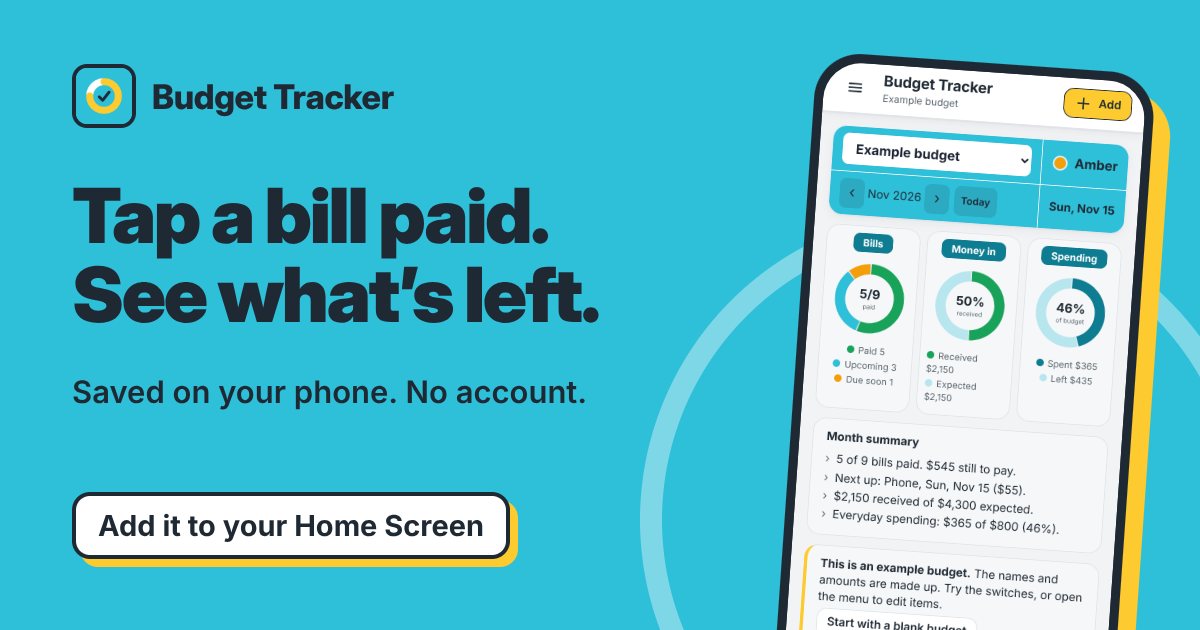
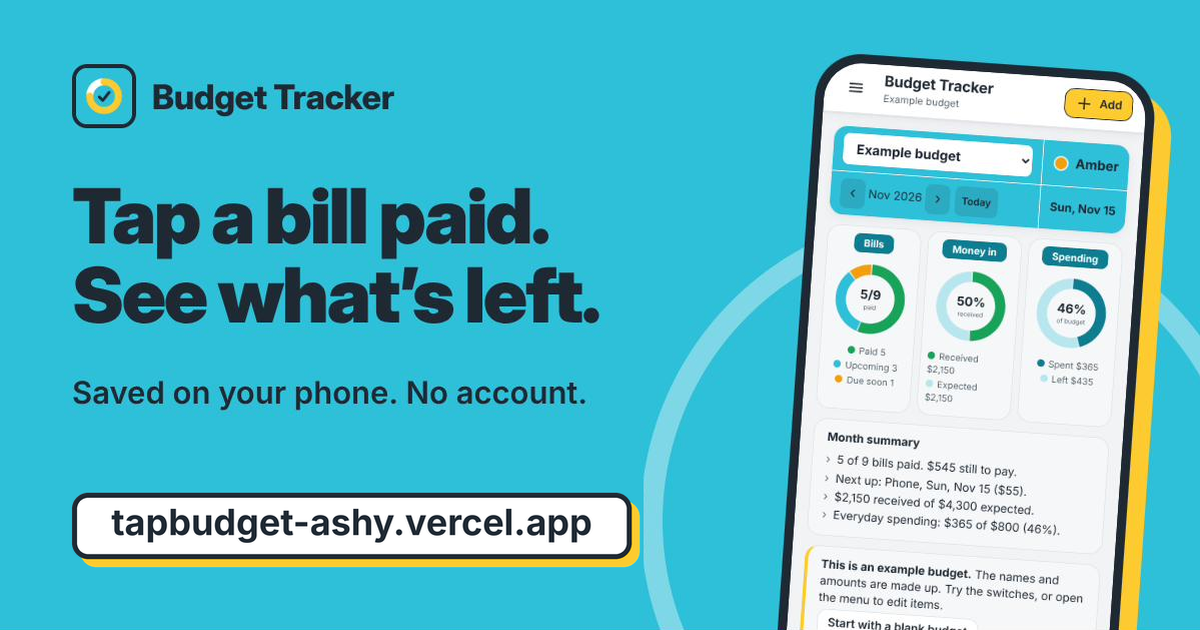
Add files via upload

diff --git a/about/index.html b/about/index.html
@@ -5,22 +5,22 @@
 <meta name="viewport" content="width=device-width, initial-scale=1">
 <title>Budget Tracker: tap a bill paid, see what’s left</title>
 <meta name="description" content="Budget Tracker: tap a bill paid, filter what’s left, and see everything on one screen. Saved on your phone, no account.">
-<link rel="canonical" href="https://geiger12.github.io/BudgetTracker17/about/">
+<link rel="canonical" href="https://tapbudget-ashy.vercel.app/about/">
 <link rel="icon" href="img/icon-192.png" type="image/png">
 <meta name="theme-color" content="#2ebfd9">
 <meta property="og:type" content="website">
 <meta property="og:site_name" content="Budget Tracker">
 <meta property="og:title" content="Budget Tracker: tap a bill paid, see what’s left">
 <meta property="og:description" content="Filter what’s left, see it all on one screen, and pick your own colors. Saved on your phone, no account.">
-<meta property="og:url" content="https://geiger12.github.io/BudgetTracker17/about/">
-<meta property="og:image" content="https://geiger12.github.io/BudgetTracker17/about/preview.png">
+<meta property="og:url" content="https://tapbudget-ashy.vercel.app/about/">
+<meta property="og:image" content="https://tapbudget-ashy.vercel.app/about/preview.png">
 <meta property="og:image:width" content="1200">
 <meta property="og:image:height" content="630">
 <meta property="og:image:alt" content="A phone showing the Budget Tracker overview with three gauges, beside the words: Tap a bill paid. See what’s left.">
 <meta name="twitter:card" content="summary_large_image">
 <meta name="twitter:title" content="Budget Tracker: tap a bill paid, see what’s left">
 <meta name="twitter:description" content="Filter what’s left, see it all on one screen, and pick your own colors. Saved on your phone, no account.">
-<meta name="twitter:image" content="https://geiger12.github.io/BudgetTracker17/about/preview.png">
+<meta name="twitter:image" content="https://tapbudget-ashy.vercel.app/about/preview.png">
 <style>
 :root{--cyan:#2ebfd9;--deep:#0e7c91;--yellow:#fdcb2f;--ink:#1f2933;--muted:#4b5563;--mist:#f2f6f7;--white:#fff;--font:"Inter",system-ui,-apple-system,"Segoe UI",Roboto,Helvetica,Arial,sans-serif}
 *{box-sizing:border-box}
